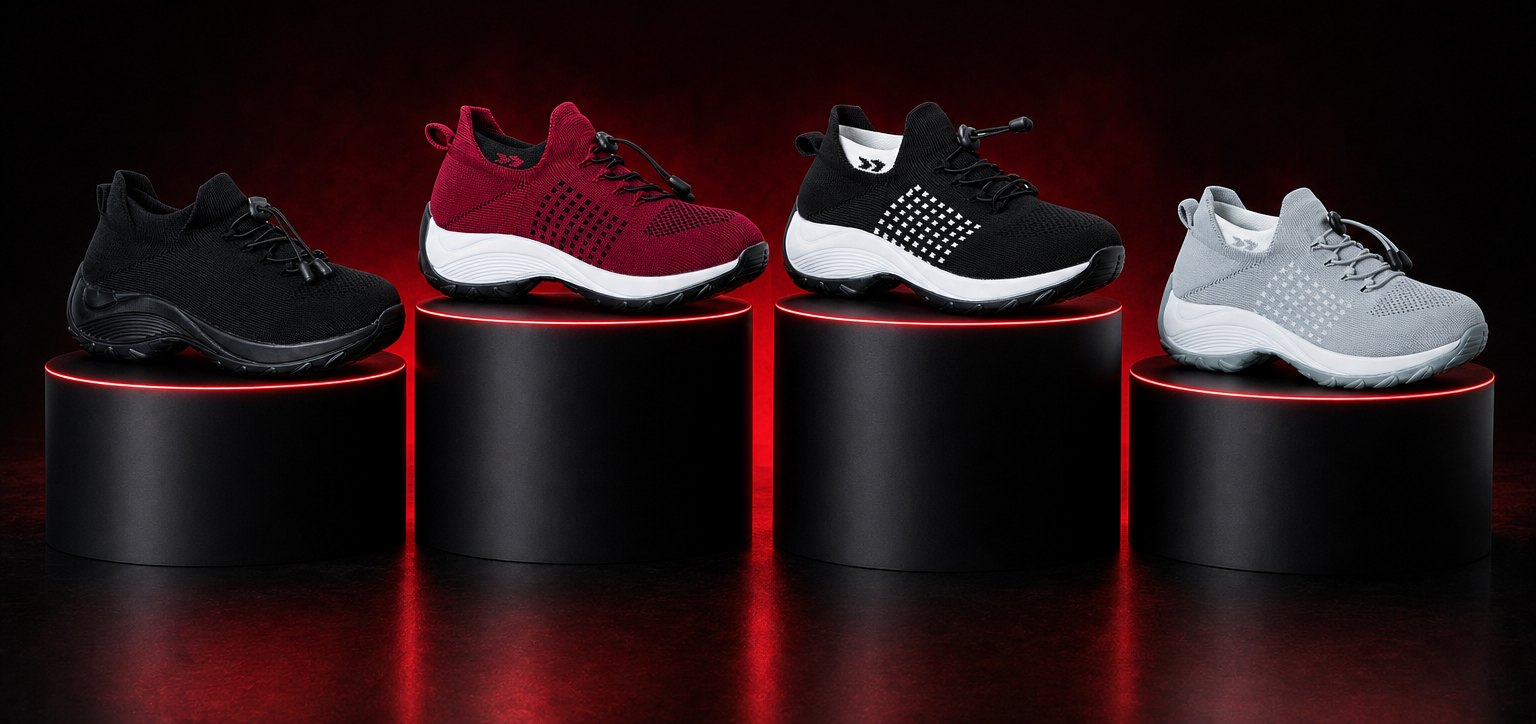
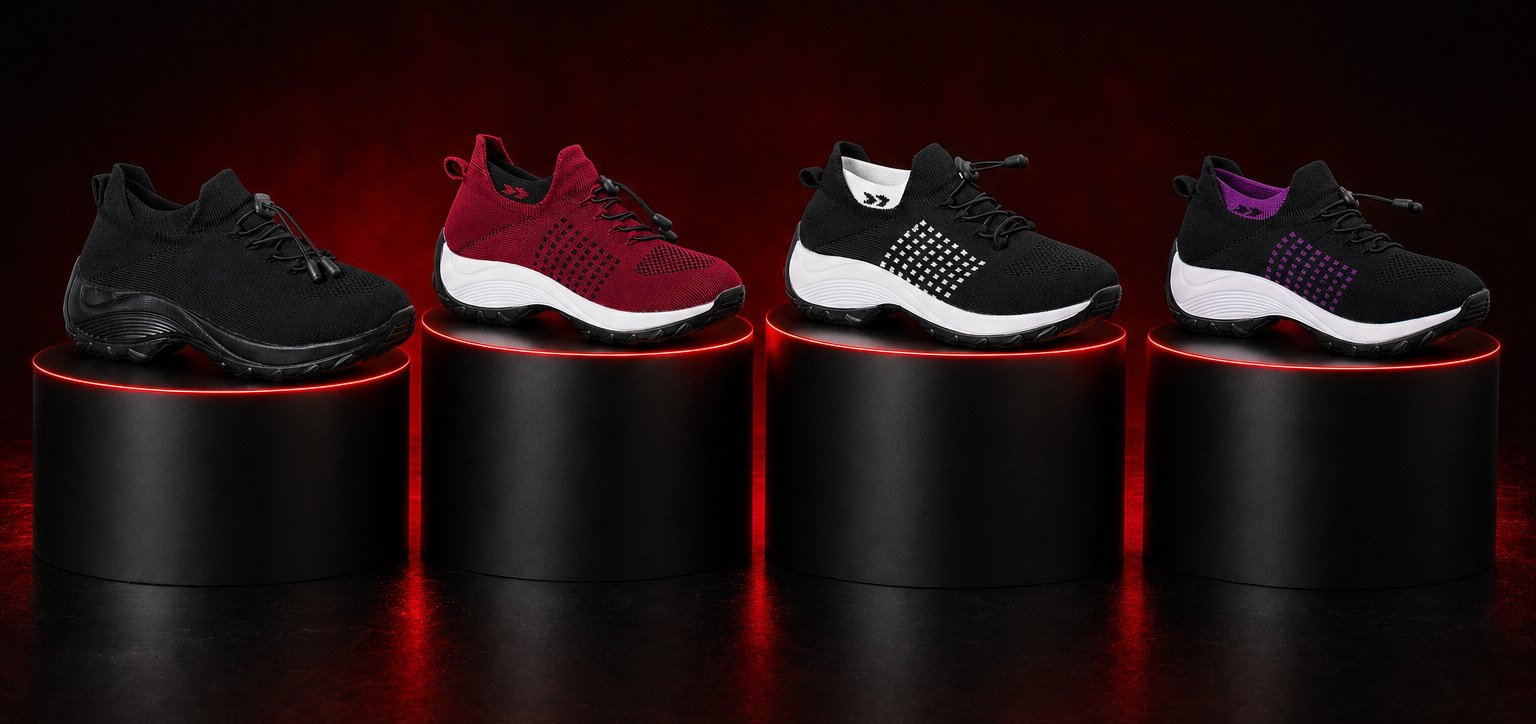
Black Friday page: comparison chart, new value props, Black Purple colorway
- Remove countdown timer and the $100 gift section
- Value props: Instant pain-relief, Doctor-approved, All-day comfort
- Match comfortorthowear.com type (system UI stack, Sora in sections)
- Copy: Free gifts unlocked for orders $100+
- Add Hoka/Skechers vs ComfortWear comparison from the product page
- Swap Light Grey for Black Purple in the hero and colorway grid

Claude-Session: https://claude.ai/code/session_01BUmcfUYD2D5BMCthzYK3pV

diff --git a/landing/black-friday-2026/index.html b/landing/black-friday-2026/index.html
@@ -3,7 +3,7 @@
 <meta name="description" content="Black Friday at Comfort Wear: up to 60% off sitewide, plus a free gift on orders of $100 or more.">
 <link rel="preconnect" href="https://fonts.googleapis.com">
 <link rel="preconnect" href="https://fonts.gstatic.com" crossorigin>
-<link rel="stylesheet" href="https://fonts.googleapis.com/css2?family=Archivo:wdth,wght@62..125,400..900&family=IBM+Plex+Mono:wght@500;600&display=swap">
+<link rel="stylesheet" href="https://fonts.googleapis.com/css2?family=Sora:wght@400;500;600;700;800&display=swap">
 <style>
 /* Layout: one dark showroom column. Red is the stage light: it marks the price, the gift and the buttons, nothing else. */
 :root {
@@ -17,9 +17,10 @@
   --red-deep: #7d0b18;
   --studio: #e8e8e8;       /* product-photo backdrop */
 
-  --display: "Archivo", "Arial Black", "Helvetica Neue", Arial, sans-serif;
-  --body: "Archivo", "Helvetica Neue", Arial, sans-serif;
-  --mono: "IBM Plex Mono", ui-monospace, Menlo, Consolas, monospace;
+  /* Same stacks as comfortorthowear.com: system UI for headings and body, Sora in custom sections */
+  --display: system-ui, -apple-system, "Segoe UI", Roboto, "Helvetica Neue", "Noto Sans", "Liberation Sans", Arial, sans-serif;
+  --body: var(--display);
+  --mono: "Sora", var(--display);
 
   --step--1: 0.8125rem;
   --step-0: 1rem;
@@ -36,7 +37,7 @@
 * { box-sizing: border-box; }
 html { scroll-behavior: smooth; }
 @media (prefers-reduced-motion: reduce) { html { scroll-behavior: auto; } *, *::before, *::after { animation: none !important; transition: none !important; } }
-body { background: var(--ink); color: var(--fg); font-family: var(--body); font-size: var(--step-0); line-height: 1.55; font-stretch: 100%; -webkit-font-smoothing: antialiased; }
+body { background: var(--ink); color: var(--fg); font-family: var(--body); font-size: var(--step-0); line-height: 1.55; -webkit-font-smoothing: antialiased; }
 img { max-width: 100%; display: block; }
 a { color: inherit; }
 h1, h2, h3 { margin: 0; text-wrap: balance; font-family: var(--display); line-height: 0.95; }
@@ -55,71 +56,47 @@ p { margin: 0; }
 
 /* Header */
 .top { display: flex; align-items: center; justify-content: space-between; gap: 16px; padding-block: 18px; }
-.logo { font-family: var(--display); font-weight: 900; font-stretch: 112%; font-size: 1.35rem; letter-spacing: -0.01em; text-decoration: none; }
+.logo { font-family: var(--display); font-weight: 800; font-size: 1.35rem; letter-spacing: -0.01em; text-decoration: none; }
 .logo b { color: var(--red); }
 .top-link { font-family: var(--mono); font-size: var(--step--1); font-weight: 600; letter-spacing: 0.12em; text-transform: uppercase; text-decoration: none; border-bottom: 2px solid var(--red); padding-bottom: 2px; }
 
 /* Hero */
 .hero { position: relative; isolation: isolate; text-align: center; }
-.hero-word { font-weight: 900; font-stretch: 125%; font-size: var(--step-4); letter-spacing: -0.02em; text-transform: uppercase; line-height: 0.85; padding-top: clamp(12px, 3vw, 36px); position: relative; z-index: 2; }
+.hero-word { font-weight: 800; font-size: var(--step-4); letter-spacing: -0.02em; text-transform: uppercase; line-height: 0.85; padding-top: clamp(12px, 3vw, 36px); position: relative; z-index: 2; }
 .hero-word .outline { color: transparent; -webkit-text-stroke: 2px var(--red); display: block; }
 .hero-figure { margin: clamp(-60px, -5vw, -18px) 0 0; position: relative; z-index: 1; }
 .hero-figure img { width: 100%; height: auto; aspect-ratio: 1536 / 1024; object-fit: cover; }
 .hero-figure::after { content: ""; position: absolute; inset: auto 0 0 0; height: 30%; background: linear-gradient(to bottom, transparent, var(--ink)); pointer-events: none; }
-.sale-tag { position: absolute; z-index: 3; top: clamp(10px, 4vw, 70px); left: max(16px, 5vw); transform: rotate(-9deg); background: var(--red); color: #fff; font-family: var(--display); font-weight: 900; font-stretch: 110%; font-size: clamp(1rem, 0.6rem + 1.6vw, 1.7rem); padding: 0.35em 0.9em 0.35em 1.4em; clip-path: polygon(14% 0, 100% 0, 100% 100%, 14% 100%, 0 50%); box-shadow: 0 10px 30px rgba(227, 21, 43, 0.35); }
+.sale-tag { position: absolute; z-index: 3; top: clamp(10px, 4vw, 70px); left: max(16px, 5vw); transform: rotate(-9deg); background: var(--red); color: #fff; font-family: var(--display); font-weight: 800; font-size: clamp(1rem, 0.6rem + 1.6vw, 1.7rem); padding: 0.35em 0.9em 0.35em 1.4em; clip-path: polygon(14% 0, 100% 0, 100% 100%, 14% 100%, 0 50%); box-shadow: 0 10px 30px rgba(227, 21, 43, 0.35); }
 .sale-tag::before { content: ""; position: absolute; left: 0.55em; top: 50%; width: 0.38em; height: 0.38em; margin-top: -0.19em; border-radius: 50%; background: var(--ink); }
 
-.offer { display: grid; justify-items: center; gap: 18px; padding-block: 8px 56px; text-align: center; }
-.offer h1 { font-weight: 900; font-stretch: 118%; font-size: var(--step-3); text-transform: uppercase; letter-spacing: -0.015em; max-width: 14ch; }
+.offer { display: grid; justify-items: center; gap: 18px; padding-block: 0 56px; text-align: center; }
+.offer h1 { font-weight: 800; font-size: var(--step-3); text-transform: uppercase; letter-spacing: -0.015em; max-width: 14ch; }
 .offer h1 em { font-style: normal; color: var(--red-hot); }
 .offer .sub { color: var(--muted); font-size: var(--step-1); max-width: 34ch; }
 .offer .sub strong { color: var(--fg); }
 
-.btn { display: inline-flex; align-items: center; justify-content: center; gap: 0.6em; min-height: 56px; padding: 0 2.2em; background: var(--red); color: #fff; text-decoration: none; font-family: var(--display); font-weight: 800; font-stretch: 112%; font-size: 1.05rem; letter-spacing: 0.04em; text-transform: uppercase; border: 0; transition: background 0.15s, transform 0.15s; }
+.btn { display: inline-flex; align-items: center; justify-content: center; gap: 0.6em; min-height: 56px; padding: 0 2.2em; background: var(--red); color: #fff; text-decoration: none; font-family: var(--display); font-weight: 800; font-size: 1.05rem; letter-spacing: 0.04em; text-transform: uppercase; border: 0; transition: background 0.15s, transform 0.15s; }
 .btn:hover { background: var(--red-hot); transform: translateY(-2px); }
 .btn .arrow { transition: transform 0.15s; }
 .btn:hover .arrow { transform: translateX(4px); }
 .btn.ghost { background: transparent; box-shadow: inset 0 0 0 2px var(--fg); }
 .btn.ghost:hover { background: var(--fg); color: var(--ink); }
 
-/* Countdown */
-.clock { display: flex; gap: 10px; justify-content: center; font-variant-numeric: tabular-nums; }
-.clock div { display: grid; justify-items: center; min-width: 64px; padding: 10px 6px 8px; background: var(--stage); border: 1px solid var(--line); }
-.clock b { font-family: var(--display); font-weight: 800; font-stretch: 100%; font-size: 1.7rem; line-height: 1; }
-.clock small { font-family: var(--mono); font-size: 0.66rem; letter-spacing: 0.14em; color: var(--muted); text-transform: uppercase; margin-top: 4px; }
-.clock-label { color: var(--muted); }
 
 /* Proof strip */
 .perks { display: grid; grid-template-columns: repeat(3, minmax(0, 1fr)); border-block: 1px solid var(--line); }
 .perk { display: grid; justify-items: center; gap: 6px; padding: 22px 10px; text-align: center; }
 .perk + .perk { border-left: 1px solid var(--line); }
-.perk svg { width: 26px; height: 26px; stroke: var(--red-hot); fill: none; stroke-width: 2; }
+.perk svg { width: 26px; height: 26px; stroke: var(--red-hot); fill: none; stroke-width: 2.6; stroke-linecap: round; stroke-linejoin: round; }
 .perk .label { color: var(--fg); font-size: 0.74rem; }
 
-/* Gift ladder */
-.gift { background: radial-gradient(120% 90% at 50% 0%, var(--red-deep) 0%, var(--stage) 55%, var(--ink) 100%); padding-block: clamp(56px, 8vw, 96px); }
-.gift-inner { display: grid; grid-template-columns: minmax(0, 1fr) minmax(0, 1.1fr); gap: clamp(28px, 5vw, 72px); align-items: center; }
-.gift h2 { font-weight: 900; font-stretch: 118%; font-size: var(--step-3); text-transform: uppercase; }
-.gift h2 span { color: var(--red-hot); }
-.gift-copy { display: grid; gap: 18px; min-width: 0; }
-.gift-copy p { color: var(--muted); max-width: 44ch; }
-.ladder { display: grid; gap: 14px; min-width: 0; }
-.rung { display: grid; grid-template-columns: 92px minmax(0, 1fr); align-items: center; gap: 18px; padding: 18px 20px; background: rgba(12, 10, 11, 0.55); border: 1px solid var(--line); }
-.rung .amt { font-family: var(--display); font-weight: 900; font-stretch: 110%; font-size: 1.9rem; font-variant-numeric: tabular-nums; }
-.rung h3 { font-family: var(--body); font-size: 1.05rem; font-weight: 700; line-height: 1.25; }
-.rung p { color: var(--muted); font-size: 0.92rem; }
-.rung.top { border-color: var(--red); box-shadow: 0 0 0 1px var(--red), 0 18px 50px rgba(227, 21, 43, 0.25); }
-.rung.top .amt { color: var(--red-hot); }
-.meter { height: 8px; background: var(--line); position: relative; overflow: hidden; }
-.meter i { position: absolute; inset: 0 auto 0 0; width: 100%; background: linear-gradient(90deg, var(--red-deep), var(--red-hot)); transform-origin: left; animation: fill 1.6s 0.3s cubic-bezier(.2,.7,.2,1) both; }
-@keyframes fill { from { transform: scaleX(0.08); } }
-.meter-scale { display: flex; justify-content: space-between; color: var(--muted); font-size: 0.7rem; }
 
 /* Section headings */
 .section { padding-block: clamp(56px, 8vw, 104px); }
 .head { display: grid; gap: 12px; margin-bottom: clamp(28px, 4vw, 48px); }
 .head .label { color: var(--red-hot); }
-.head h2 { font-weight: 900; font-stretch: 115%; font-size: var(--step-2); text-transform: uppercase; max-width: 22ch; }
+.head h2 { font-weight: 800; font-size: var(--step-2); text-transform: uppercase; max-width: 22ch; }
 .head p { color: var(--muted); max-width: 52ch; }
 
 /* Colorway grid */
@@ -133,6 +110,24 @@ p { margin: 0; }
 .shoe-body h3 { font-family: var(--body); font-size: 1rem; font-weight: 700; line-height: 1.3; }
 .shoe-body p { color: var(--muted); font-size: 0.88rem; }
 .shoe-body .go { margin-top: 8px; font-size: 0.72rem; color: var(--red-hot); }
+
+/* Comparison */
+.compare { font-family: "Sora", var(--body); }
+.head.center { justify-items: center; text-align: center; }
+.cmp { max-width: 860px; margin-inline: auto; border: 1px solid var(--line); background: var(--stage); }
+.cmp-row { display: grid; grid-template-columns: minmax(0, 0.9fr) minmax(0, 1fr) minmax(0, 1.1fr); }
+.cmp-row + .cmp-row { border-top: 1px solid var(--line); }
+.cmp-row > span { display: flex; align-items: center; gap: 10px; padding: 16px 18px; min-width: 0; font-size: 0.95rem; line-height: 1.35; }
+.cmp-feat { font-weight: 600; }
+.cmp-them { color: var(--muted); }
+.cmp-us { background: var(--red-deep); color: #fff; font-weight: 600; }
+.cmp-head > span { padding-block: 20px; font-family: var(--display); font-weight: 800; font-size: 1.05rem; text-transform: uppercase; letter-spacing: 0.02em; justify-content: center; }
+.cmp-head .cmp-us { background: var(--red); }
+.cmp-foot > span { padding-block: 12px; justify-content: center; }
+.cmp-foot .cmp-us { background: var(--red); }
+.ic { flex: none; width: 20px; height: 20px; fill: none; stroke-width: 2.6; stroke-linecap: round; stroke-linejoin: round; }
+.ic.no { stroke: var(--muted); }
+.ic.yes { stroke: #fff; }
 
 /* Anatomy */
 .anatomy { display: grid; grid-template-columns: minmax(0, 1.15fr) minmax(0, 1fr); gap: clamp(24px, 5vw, 64px); align-items: center; }
@@ -149,7 +144,7 @@ p { margin: 0; }
 .shifts { display: grid; grid-template-columns: repeat(4, minmax(0, 1fr)); gap: 0; border: 1px solid var(--line); }
 .shift { display: grid; gap: 8px; align-content: start; padding: 24px 20px; min-width: 0; }
 .shift + .shift { border-left: 1px solid var(--line); }
-.shift .hrs { font-family: var(--display); font-weight: 900; font-stretch: 120%; font-size: 2.6rem; line-height: 1; color: var(--fg); font-variant-numeric: tabular-nums; }
+.shift .hrs { font-family: var(--display); font-weight: 800; font-size: 2.6rem; line-height: 1; color: var(--fg); font-variant-numeric: tabular-nums; }
 .shift .hrs small { font-size: 0.4em; color: var(--red-hot); letter-spacing: 0.06em; margin-left: 4px; }
 .shift h3 { font-family: var(--body); font-size: 1rem; font-weight: 700; line-height: 1.3; }
 .shift p { color: var(--muted); font-size: 0.9rem; }
@@ -164,9 +159,9 @@ p { margin: 0; }
 /* Final CTA */
 .final { position: relative; overflow: hidden; text-align: center; background: var(--stage); border-top: 1px solid var(--line); }
 .final .wrap { display: grid; justify-items: center; gap: 22px; padding-block: clamp(64px, 9vw, 120px); position: relative; z-index: 1; }
-.final-big { font-family: var(--display); font-weight: 900; font-stretch: 125%; font-size: clamp(5rem, 2rem + 18vw, 15rem); line-height: 0.8; color: transparent; -webkit-text-stroke: 2px var(--red); letter-spacing: -0.03em; }
+.final-big { font-family: var(--display); font-weight: 800; font-size: clamp(5rem, 2rem + 18vw, 15rem); line-height: 0.8; color: transparent; -webkit-text-stroke: 2px var(--red); letter-spacing: -0.03em; }
 .final-big span { font-size: 0.42em; vertical-align: 0.9em; -webkit-text-stroke-width: 1.5px; }
-.final h2 { font-weight: 900; font-stretch: 115%; font-size: var(--step-2); text-transform: uppercase; max-width: 20ch; }
+.final h2 { font-weight: 800; font-size: var(--step-2); text-transform: uppercase; max-width: 20ch; }
 .final p { color: var(--muted); max-width: 44ch; }
 .btn-row { display: flex; flex-wrap: wrap; justify-content: center; gap: 12px; }
 
@@ -176,12 +171,12 @@ footer .wrap { display: flex; flex-wrap: wrap; justify-content: space-between; g
 /* Sticky mobile buy bar */
 .buybar { position: fixed; left: 0; right: 0; bottom: 0; z-index: 20; display: none; align-items: center; gap: 12px; padding: 10px var(--gutter-r) calc(10px + env(safe-area-inset-bottom, 0px)) var(--gutter-l); background: rgba(12, 10, 11, 0.94); border-top: 1px solid var(--line); backdrop-filter: blur(8px); }
 .buybar .txt { flex: 1; min-width: 0; line-height: 1.25; }
-.buybar .txt b { display: block; font-family: var(--display); font-weight: 900; font-stretch: 110%; font-size: 1.05rem; }
+.buybar .txt b { display: block; font-family: var(--display); font-weight: 800; font-size: 1.05rem; }
 .buybar .txt small { color: var(--muted); font-size: 0.76rem; }
 .buybar .btn { min-height: 46px; padding: 0 1.2em; font-size: 0.9rem; }
 
 @media (max-width: 900px) {
-  .gift-inner, .anatomy { grid-template-columns: minmax(0, 1fr); }
+  .anatomy { grid-template-columns: minmax(0, 1fr); }
   .shoes { grid-template-columns: repeat(2, minmax(0, 1fr)); }
   .shifts { grid-template-columns: repeat(2, minmax(0, 1fr)); }
   .shift:nth-child(3) { border-left: 0; }
@@ -196,20 +191,21 @@ footer .wrap { display: flex; flex-wrap: wrap; justify-content: space-between; g
   .hero-figure img { aspect-ratio: 1536 / 724; }
   .offer .btn { padding: 0 1.4em; font-size: 0.95rem; }
   .perk .label { font-size: 0.64rem; letter-spacing: 0.08em; }
-  .clock div { min-width: 58px; }
-  .rung { grid-template-columns: 72px minmax(0, 1fr); padding: 16px; gap: 14px; }
-  .rung .amt { font-size: 1.5rem; }
   .shoes { gap: 10px; }
   .shoe-body { padding: 12px 12px 14px; }
   .shifts { grid-template-columns: minmax(0, 1fr); }
+  .cmp-row { grid-template-columns: minmax(0, 0.8fr) minmax(0, 1fr) minmax(0, 1fr); }
+  .cmp-row > span { padding: 12px 10px; font-size: 0.82rem; gap: 6px; }
+  .cmp-head > span { font-size: 0.8rem; }
+  .ic { width: 16px; height: 16px; }
   .shift + .shift { border-left: 0; border-top: 1px solid var(--line); }
 }
 </style>
 
-<div class="ticker label" aria-label="Black Friday: 60% off sitewide, free gift on orders over $100">
+<div class="ticker label" aria-label="Black Friday: up to 60% off sitewide, free gifts on orders $100+">
   <div class="ticker-track" aria-hidden="true">
-    <span>Black Friday is live</span><span>Up to 60% off sitewide</span><span>Free gift on orders $100+</span><span>Shop every colorway</span>
-    <span>Black Friday is live</span><span>Up to 60% off sitewide</span><span>Free gift on orders $100+</span><span>Shop every colorway</span>
+    <span>Black Friday is live</span><span>Up to 60% off sitewide</span><span>Free gifts on orders $100+</span><span>Shop every colorway</span>
+    <span>Black Friday is live</span><span>Up to 60% off sitewide</span><span>Free gifts on orders $100+</span><span>Shop every colorway</span>
   </div>
 </div>
 
@@ -226,71 +222,42 @@ footer .wrap { display: flex; flex-wrap: wrap; justify-content: space-between; g
     <figure class="hero-figure">
       <picture>
         <source media="(max-width: 640px)" srcset="img/hero-podiums-tight.jpg">
-        <img src="img/hero-podiums.jpg" width="1536" height="1024" alt="Four Comfort Wear Ortho Stretch Cushion Shoes on red-lit black podiums: all black, burgundy red, black with white sole, and light grey.">
+        <img src="img/hero-podiums.jpg" width="1536" height="1024" alt="Four Comfort Wear Ortho Stretch Cushion Shoes on red-lit black podiums: all black, burgundy red, black with white sole, and black with purple accents.">
       </picture>
       <div class="sale-tag" aria-hidden="true">SALE</div>
     </figure>
 
     <div class="wrap offer">
-      <p class="label clock-label">Black Friday sale ends in</p>
-      <div class="clock" id="clock" role="timer" aria-live="off">
-        <div><b data-u="d">04</b><small>Days</small></div>
-        <div><b data-u="h">12</b><small>Hrs</small></div>
-        <div><b data-u="m">30</b><small>Min</small></div>
-        <div><b data-u="s">00</b><small>Sec</small></div>
-      </div>
       <h1 id="offer-title">Up to <em>60% off</em> sitewide sale</h1>
-      <p class="sub">The shoe built for long days on your feet, now up to 60% off. <strong>Spend $100+ and get a free gift.</strong></p>
+      <p class="sub">The shoe built for long days on your feet, now up to 60% off. <strong>Free gifts unlocked for orders $100+.</strong></p>
       <a class="btn" href="https://comfortorthowear.com/collections/all">Shop Black Friday deals <span class="arrow" aria-hidden="true">&rarr;</span></a>
     </div>
 
     <div class="wrap">
       <div class="perks">
         <div class="perk">
-          <svg viewBox="0 0 24 24" aria-hidden="true"><path d="M20.6 13.4 13.4 20.6a2 2 0 0 1-2.8 0L3 13V3h10l7.6 7.6a2 2 0 0 1 0 2.8Z"/><circle cx="7.5" cy="7.5" r="1.5"/></svg>
-          <span class="label">60% off<br>sitewide</span>
+          <svg viewBox="0 0 24 24" aria-hidden="true"><path d="M5 12.5 10 17.5 19 7"/></svg>
+          <span class="label">Instant<br>pain-relief</span>
         </div>
         <div class="perk">
-          <svg viewBox="0 0 24 24" aria-hidden="true"><rect x="3" y="8" width="18" height="4"/><path d="M12 8v13M5 12v9h14v-9M12 8C10 4 6.5 4.5 7 7c.3 1.3 3 1 5 1Zm0 0c2-4 5.5-3.5 5-1-.3 1.3-3 1-5 1Z"/></svg>
-          <span class="label">Free gift<br>over $100</span>
+          <svg viewBox="0 0 24 24" aria-hidden="true"><path d="M5 12.5 10 17.5 19 7"/></svg>
+          <span class="label">Doctor-<br>approved</span>
         </div>
         <div class="perk">
-          <svg viewBox="0 0 24 24" aria-hidden="true"><path d="M3 16c3 0 4-3 7-3s3 3 6 3 4-2 5-2v4H3Z"/><path d="M8 13V6c0-1 1-2 2-2h2l2 4h3"/></svg>
-          <span class="label">Slip-on<br>stretch fit</span>
+          <svg viewBox="0 0 24 24" aria-hidden="true"><path d="M5 12.5 10 17.5 19 7"/></svg>
+          <span class="label">All-day<br>comfort</span>
         </div>
       </div>
     </div>
   </section>
 
-  <section class="gift" aria-labelledby="gift-title">
-    <div class="wrap gift-inner">
-      <div class="gift-copy">
-        <p class="label" style="color: var(--red-hot)">The $100 gift</p>
-        <h2 id="gift-title">Spend $100. <span>Get a gift</span> on us.</h2>
-        <p>Every order of $100 or more ships with a free gift, added automatically at checkout.</p>
-        <a class="btn ghost" href="https://comfortorthowear.com/collections/all" style="justify-self: start">Build my order</a>
-      </div>
-      <div class="ladder">
-        <div class="rung">
-          <span class="amt">60%</span>
-          <div><h3>Off everything, sitewide</h3><p>The discount applies across the whole site.</p></div>
-        </div>
-        <div class="rung top">
-          <span class="amt">$100</span>
-          <div><h3>Free gift unlocked</h3><p>Spend $100 or more and your gift is added to the order.</p></div>
-        </div>
-        <div class="meter" role="img" aria-label="Spend meter from $0 to $100"><i></i></div>
-        <div class="meter-scale label"><span>$0</span><span>$50</span><span>$100 &middot; Gift</span></div>
-      </div>
-    </div>
-  </section>
 
   <section class="section" id="colors" aria-labelledby="colors-title">
     <div class="wrap">
       <div class="head">
         <p class="label">Pick your pair</p>
         <h2 id="colors-title">The Ortho Stretch Cushion Shoe, on sale in every color</h2>
-        <p>Four colorways that suit the season. Stock up for work and weekends, and pass $100 for your free gift.</p>
+        <p>Four colorways that suit the season. Stock up for work and weekends, and free gifts unlock at $100.</p>
       </div>
       <div class="shoes">
         <a class="shoe" href="https://comfortorthowear.com/collections/all">
@@ -306,9 +273,28 @@ footer .wrap { display: flex; flex-wrap: wrap; justify-content: space-between; g
           <div class="shoe-body"><h3>Black / White</h3><p>Black knit with a white sole and white detail.</p><span class="go label">Shop &rarr;</span></div>
         </a>
         <a class="shoe" href="https://comfortorthowear.com/collections/all">
-          <div class="shoe-photo"><img src="img/shoe-light-grey.jpg" alt="Light grey Ortho Stretch Cushion Shoe, side view" loading="lazy" width="800" height="700"><span class="pill label">60% off</span></div>
-          <div class="shoe-body"><h3>Light Grey</h3><p>Soft grey knit for days off and weekends.</p><span class="go label">Shop &rarr;</span></div>
+          <div class="shoe-photo"><img src="img/shoe-black-purple.jpg" alt="Black Ortho Stretch Cushion Shoe with purple accents and white sole, side view" loading="lazy" width="800" height="700"><span class="pill label">60% off</span></div>
+          <div class="shoe-body"><h3>Black / Purple</h3><p>Black knit with purple detail and a white sole.</p><span class="go label">Shop &rarr;</span></div>
         </a>
+      </div>
+    </div>
+  </section>
+
+  <section class="section compare" style="padding-top: 0" aria-labelledby="compare-title">
+    <div class="wrap">
+      <div class="head center">
+        <p class="label">Compare</p>
+        <h2 id="compare-title">Feel the difference with ComfortWear</h2>
+        <p>Designed to support the natural shape of your feet, ComfortWear combines soft materials, smart cushioning, and features that move with you.</p>
+      </div>
+      <div class="cmp" role="table" aria-label="Hoka and Skechers compared with ComfortWear">
+        <div class="cmp-row cmp-head" role="row"><span role="columnheader"></span><span class="cmp-them" role="columnheader">Hoka / Skechers</span><span class="cmp-us" role="columnheader">ComfortWear</span></div>
+          <div class="cmp-row" role="row"><span class="cmp-feat" role="rowheader">Arch support</span><span class="cmp-them" role="cell"><svg class="ic no" viewBox="0 0 24 24" aria-hidden="true"><path d="M6 6l12 12M18 6 6 18"/></svg>No arch support</span><span class="cmp-us" role="cell"><svg class="ic yes" viewBox="0 0 24 24" aria-hidden="true"><path d="M5 12.5 10 17.5 19 7"/></svg>Anatomical arch support</span></div>
+          <div class="cmp-row" role="row"><span class="cmp-feat" role="rowheader">Toe-box</span><span class="cmp-them" role="cell"><svg class="ic no" viewBox="0 0 24 24" aria-hidden="true"><path d="M6 6l12 12M18 6 6 18"/></svg>Narrow fit</span><span class="cmp-us" role="cell"><svg class="ic yes" viewBox="0 0 24 24" aria-hidden="true"><path d="M5 12.5 10 17.5 19 7"/></svg>Wide toe-box</span></div>
+          <div class="cmp-row" role="row"><span class="cmp-feat" role="rowheader">Heel cushioning</span><span class="cmp-them" role="cell"><svg class="ic no" viewBox="0 0 24 24" aria-hidden="true"><path d="M6 6l12 12M18 6 6 18"/></svg>Lacks heel cushioning</span><span class="cmp-us" role="cell"><svg class="ic yes" viewBox="0 0 24 24" aria-hidden="true"><path d="M5 12.5 10 17.5 19 7"/></svg>ORTHO-WEAR heel cushioning</span></div>
+          <div class="cmp-row" role="row"><span class="cmp-feat" role="rowheader">Material</span><span class="cmp-them" role="cell"><svg class="ic no" viewBox="0 0 24 24" aria-hidden="true"><path d="M6 6l12 12M18 6 6 18"/></svg>Rigid materials</span><span class="cmp-us" role="cell"><svg class="ic yes" viewBox="0 0 24 24" aria-hidden="true"><path d="M5 12.5 10 17.5 19 7"/></svg>Breathable stretch-fit material</span></div>
+          <div class="cmp-row" role="row"><span class="cmp-feat" role="rowheader">Sole</span><span class="cmp-them" role="cell"><svg class="ic no" viewBox="0 0 24 24" aria-hidden="true"><path d="M6 6l12 12M18 6 6 18"/></svg>No shock absorption</span><span class="cmp-us" role="cell"><svg class="ic yes" viewBox="0 0 24 24" aria-hidden="true"><path d="M5 12.5 10 17.5 19 7"/></svg>Impact-absorbing sole</span></div>
+        <div class="cmp-row cmp-foot" role="row"><span role="cell"></span><span role="cell"></span><span class="cmp-us" role="cell"><span class="label">Up to 60% off</span></span></div>
       </div>
     </div>
   </section>
@@ -355,7 +341,7 @@ footer .wrap { display: flex; flex-wrap: wrap; justify-content: space-between; g
       <div class="steps">
         <div class="step"><span class="label">Step 1</span><h3>Pick your colors and sizes</h3><p>Up to 60% off applies across the whole site.</p></div>
         <div class="step"><span class="label">Step 2</span><h3>Reach $100 in your cart</h3><p>Mix colors, or grab a pair for someone else.</p></div>
-        <div class="step"><span class="label">Step 3</span><h3>Your free gift is added</h3><p>It's included with your order automatically at checkout.</p></div>
+        <div class="step"><span class="label">Step 3</span><h3>Free gifts unlocked</h3><p>Orders of $100+ get free gifts, added automatically at checkout.</p></div>
       </div>
     </div>
   </section>
@@ -364,7 +350,7 @@ footer .wrap { display: flex; flex-wrap: wrap; justify-content: space-between; g
     <div class="wrap">
       <div class="final-big" aria-hidden="true">60<span>%</span></div>
       <h2 id="final-title">Our biggest sale of the year ends soon</h2>
-      <p>Up to 60% off sitewide, plus a free gift when you spend $100 or more. Once Black Friday is over, prices go back up.</p>
+      <p>Up to 60% off sitewide, plus free gifts unlocked for orders $100+. Once Black Friday is over, prices go back up.</p>
       <div class="btn-row">
         <a class="btn" href="https://comfortorthowear.com/collections/all">Shop the sale <span class="arrow" aria-hidden="true">&rarr;</span></a>
       </div>
@@ -375,28 +361,12 @@ footer .wrap { display: flex; flex-wrap: wrap; justify-content: space-between; g
 <footer>
   <div class="wrap">
     <span>&copy; 2026 Comfort Wear &middot; comfortorthowear.com</span>
-    <span>Free gift with orders of $100 or more.</span>
+    <span>Free gifts unlocked for orders $100+.</span>
   </div>
 </footer>
 
 <div class="buybar">
-  <div class="txt"><b>Up to 60% off</b><small>Free gift on orders $100+</small></div>
+  <div class="txt"><b>Up to 60% off</b><small>Free gifts for orders $100+</small></div>
   <a class="btn" href="https://comfortorthowear.com/collections/all">Shop now</a>
 </div>
 
-<script>
-  // Set this to the moment the sale ends (store's local time).
-  const SALE_END = new Date("2026-12-01T00:00:00-05:00");
-  const units = Object.fromEntries([...document.querySelectorAll("#clock [data-u]")].map(el => [el.dataset.u, el]));
-  const pad = n => String(n).padStart(2, "0");
-  function tick() {
-    const left = Math.max(0, SALE_END - Date.now());
-    const s = Math.floor(left / 1000);
-    units.d.textContent = pad(Math.floor(s / 86400));
-    units.h.textContent = pad(Math.floor(s / 3600) % 24);
-    units.m.textContent = pad(Math.floor(s / 60) % 60);
-    units.s.textContent = pad(s % 60);
-  }
-  tick();
-  setInterval(tick, 1000);
-</script>
